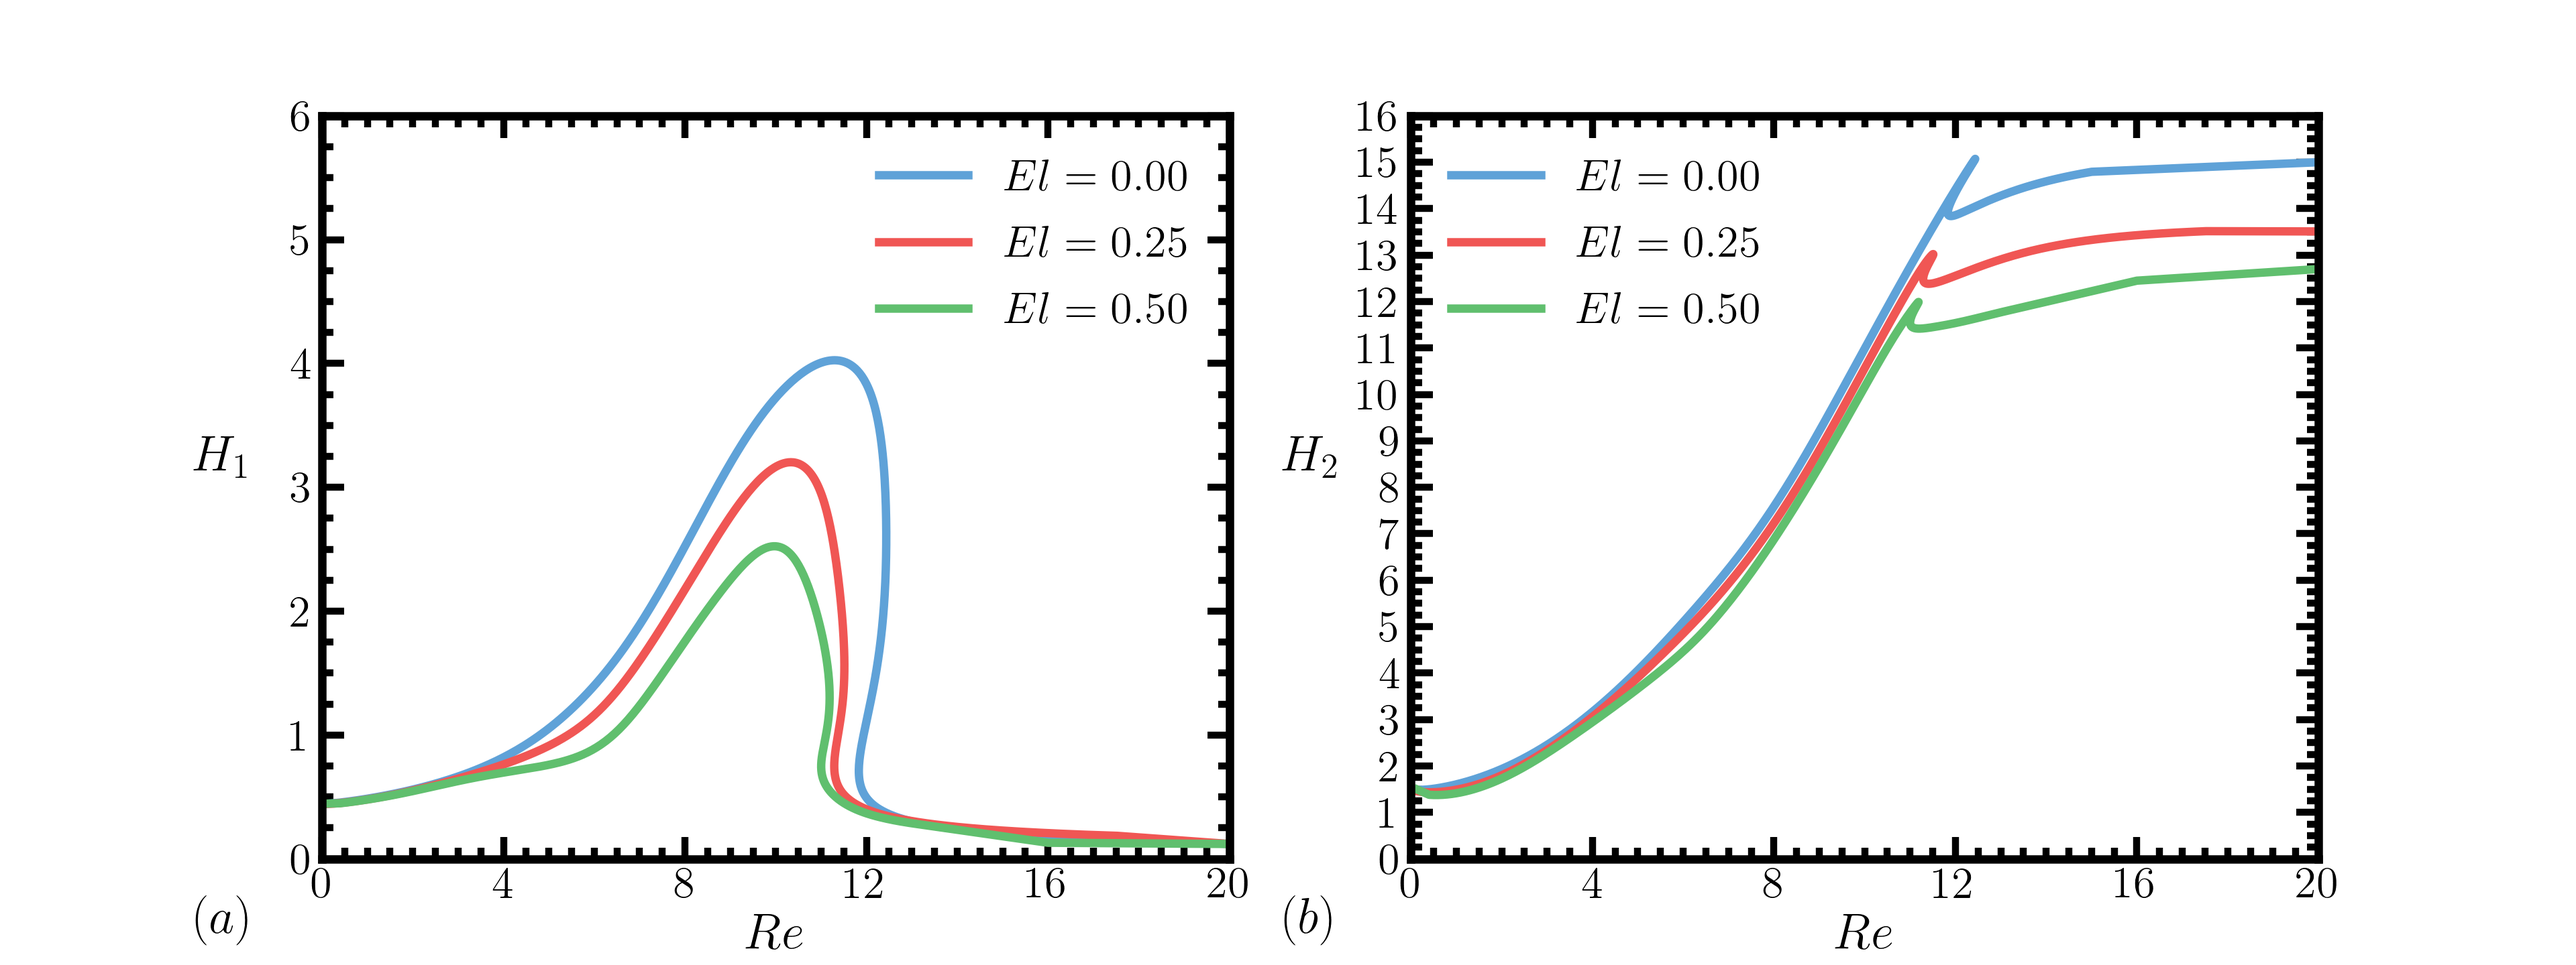
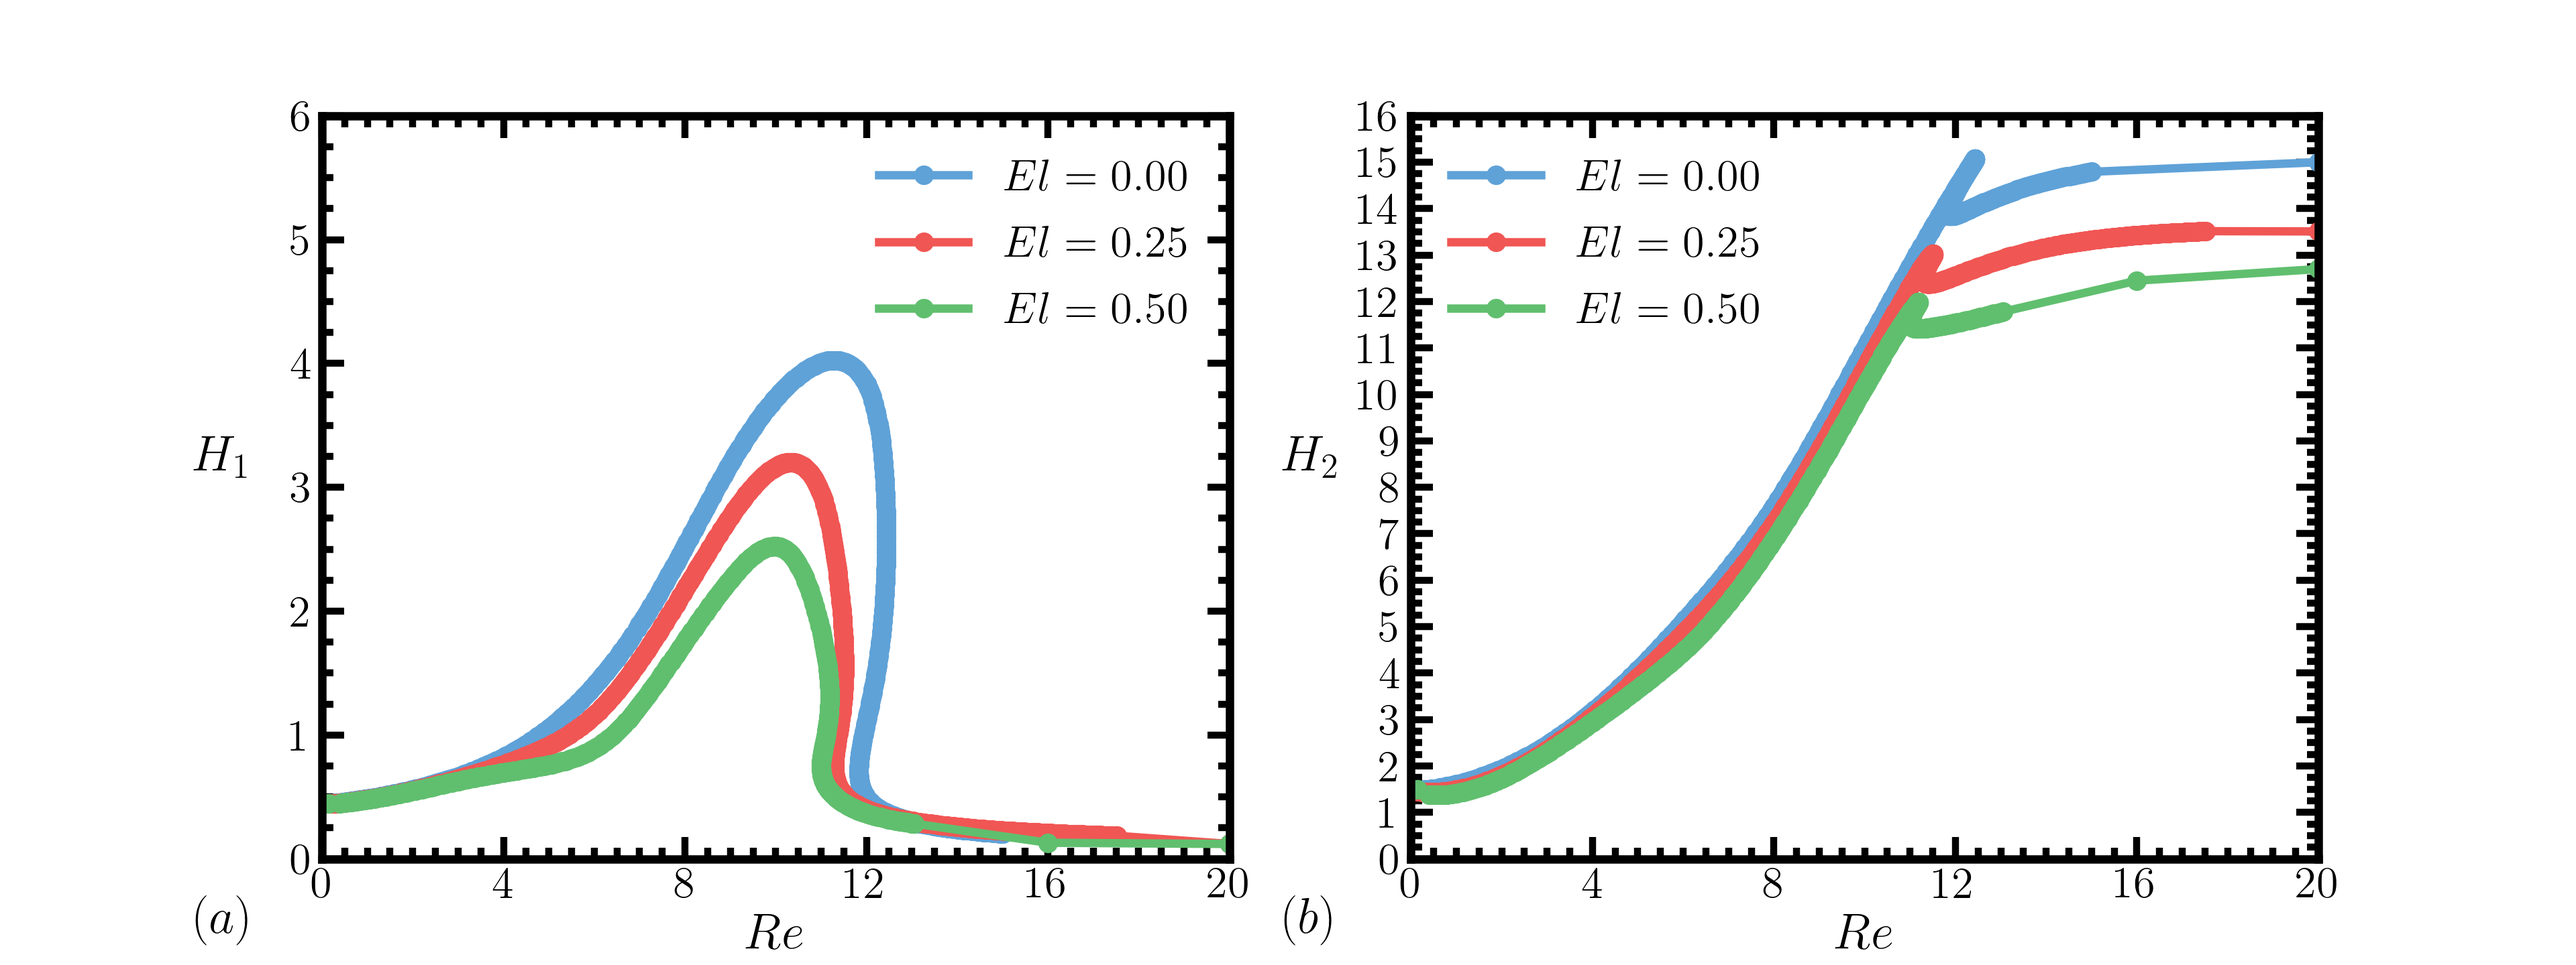
Fixed plot method mkr

Changed region(s): [[0.125, 0.3438, 0.4375, 0.875], [0.5312, 0.1562, 0.875, 0.8438]]

diff --git a/my_mpl_template/template/customtemplate.py b/my_mpl_template/template/customtemplate.py
@@ -20,7 +20,7 @@ class CustomTemplate(MatplotlibTemplate):
     """
     name = 'customtemplate'
 
-    def plot(self, x, y, style = None, **kwargs):
+    def plot(self, x, y, mkr = None, style = None, **kwargs):
         
         if style: 
             kwargs["linewidth"] = style.linewidth
@@ -28,8 +28,9 @@ class CustomTemplate(MatplotlibTemplate):
             kwargs["dashes"]    = style.dashes
             kwargs["alpha"]     = style.alpha
 
+        if not mkr: mkr = '-'
 
-        return super().plot(x, y, **kwargs)
+        return super().plot(x, y, mkr, **kwargs)
 
     def triplot(self, *args, style = None,  **kwargs):
         
